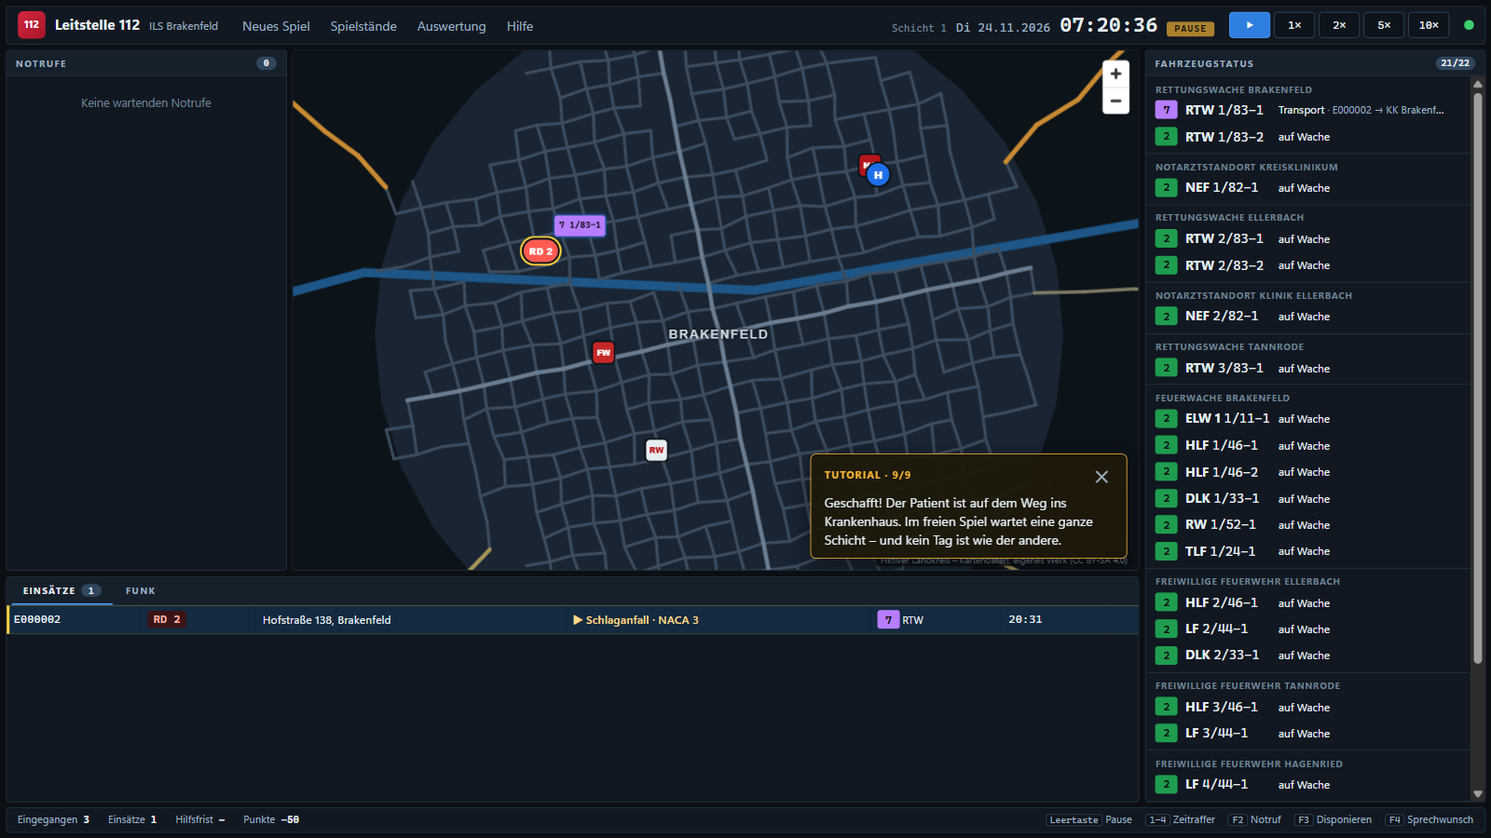
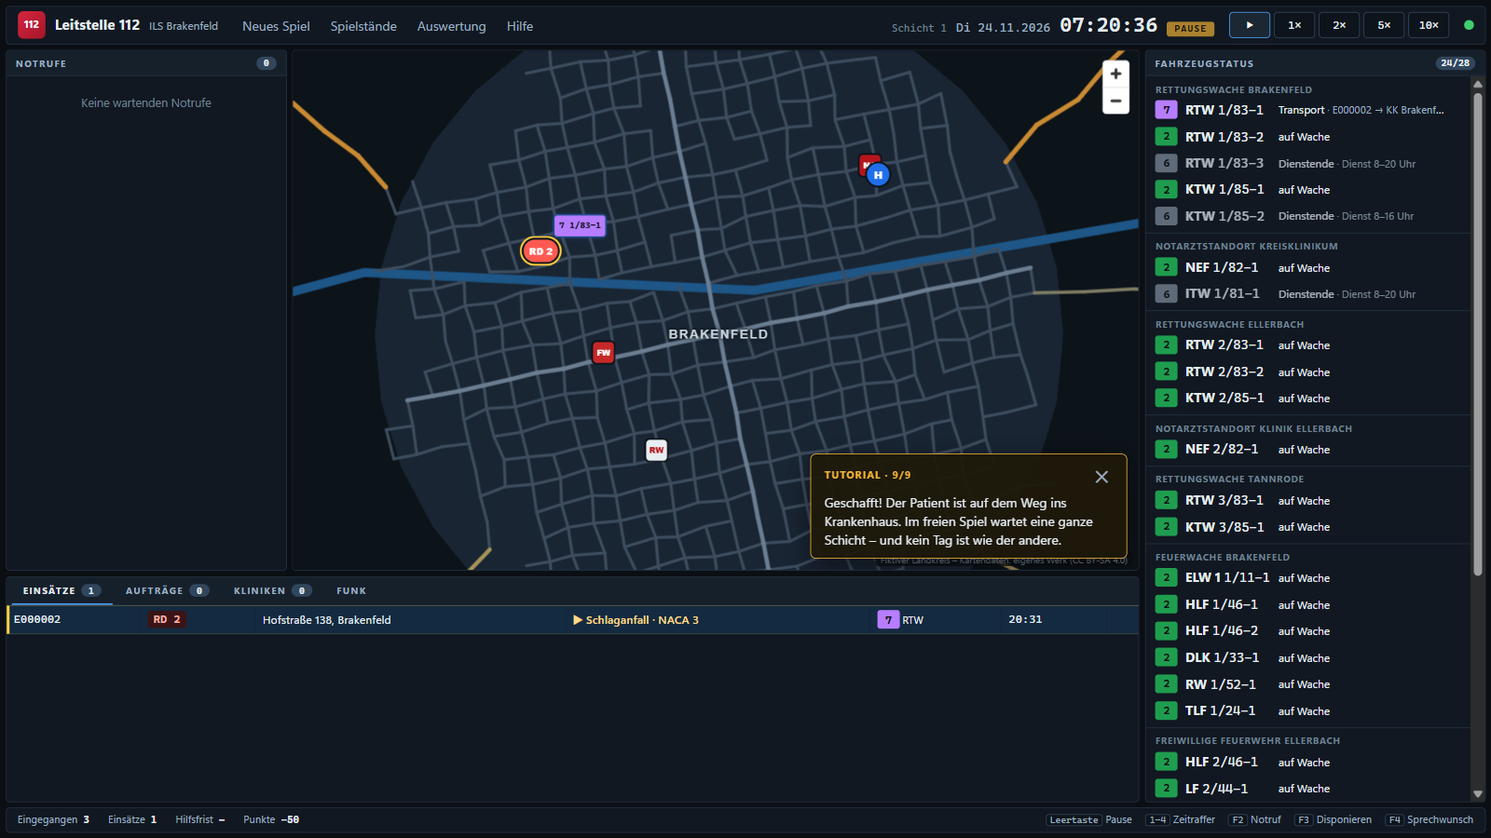
docs: RD-Logistik dokumentieren, Screenshots, Version 0.4.0
- docs/domain/logistik.md mit allen Annahmen (Transportklassen,
  Aufträge, Aufnahmeplätze, Dienstzeiten, Pausen, Status 6)
- Glossar, Vorhaltung, PLAN-Stand und README-Roadmap aktualisiert
- E2E-Test für Aufträge und Kliniken, neue Screenshots
- CHANGELOG 0.4.0

diff --git a/e2e/app.spec.ts b/e2e/app.spec.ts
@@ -66,8 +66,8 @@ test('Startbildschirm und Tutorial', async () => {
   await page.getByTestId('start-tutorial').click();
   await expect(page.getByTestId('tutorial-coach')).toBeVisible();
   await expect(page.getByTestId('start-screen')).toBeHidden();
-  // 7 Rettungsdienst- und 15 Feuerwehrfahrzeuge.
-  await expect(page.getByTestId('vehicle-row')).toHaveCount(22);
+  // 13 Rettungsdienst- (RTW, NEF, KTW, ITW) und 15 Feuerwehrfahrzeuge.
+  await expect(page.getByTestId('vehicle-row')).toHaveCount(28);
 });
 
 test('Takt, Pause und Zeitraffer', async () => {
@@ -146,6 +146,29 @@ test('Auswertung zeigt die laufende Schicht', async () => {
   await expect(page.getByTestId('evaluation')).toBeVisible();
   await shot('auswertung');
   await page.keyboard.press('Escape');
+  await page.getByTestId('btn-pause').click();
+});
+
+test('Logistik: Transportaufträge, Kliniken und Status 6', async () => {
+  // Freies Spiel: Zum Schichtbeginn liegen vorbestellte Krankentransporte vor.
+  await page.getByTestId('menu-new').click();
+  await page.getByTestId('start-free').click();
+  await expect(page.getByTestId('start-screen')).toBeHidden();
+  await page.getByTestId('tab-orders').click();
+  await expect(page.getByTestId('order-row')).toHaveCount(5);
+  await page.getByTestId('order-row').first().getByRole('button').click();
+  await expect(page.getByTestId('dispatch-dialog')).toBeVisible();
+  await page.getByTestId('alarm').click();
+  await expect(page.getByTestId('dispatch-dialog')).toBeHidden();
+  // Tages-RTW, ITW und ein KTW beginnen erst um 8 Uhr (Status 6).
+  await expect(page.getByTestId('vehicle-panel')).toContainText('Dienstende');
+  await page.waitForTimeout(1500);
+  await page.getByTestId('btn-pause').click();
+  await shot('auftraege');
+  await page.getByTestId('tab-hospitals').click();
+  await expect(page.getByTestId('hospital-panel')).toContainText('Stroke Unit');
+  await shot('kliniken');
+  await page.getByTestId('tab-incidents').click();
   await page.getByTestId('btn-pause').click();
 });
 

diff --git a/docs/domain/logistik.md b/docs/domain/logistik.md
@@ -1,0 +1,104 @@
+# Rettungsdienst-Logistik (seit 0.4.0)
+
+Daten: [`content/base/krankentransport.yaml`](../../content/base/krankentransport.yaml),
+[`content/base/einstellungen.yaml`](../../content/base/einstellungen.yaml) (`transports`,
+`logistics`) und [`content/base/fahrzeuge-wachen-kliniken.yaml`](../../content/base/fahrzeuge-wachen-kliniken.yaml).
+Entscheidung: [ADR-0015](../adr/0015-rd-logistik.md). Alle Werte sind **Annahmen** für ein
+glaubwürdiges Spiel. Sie sind keine Vorgaben eines Rettungsdienstgesetzes oder eines realen
+Bedarfsplans.
+
+![Transportaufträge mit Termin, Fahrzeuge in Status 6](../images/auftraege.png)
+
+## Fahrzeuge und Transportklassen
+
+| Typ | Klasse            | Einsatz                                                             |
+| --- | ----------------- | ------------------------------------------------------------------- |
+| RTW | Notfall           | Notfälle, Verlegungen mit Überwachung; Krankentransport möglich     |
+| NAW | Notfall + Notarzt | Wie RTW, bringt den Notarzt mit (im Landkreis nicht stationiert)    |
+| KTW | Krankentransport  | Krankentransporte und Verlegungen ohne Überwachung                  |
+| ITW | Intensiv          | Intensivverlegungen (Beatmung, Katecholamine) mit Intensivmediziner |
+
+- Nur die Klasse **Notfall** transportiert Notfallpatienten und zählt für die **Hilfsfrist**.
+  Ein KTW kann am Notfallort Erste Hilfe leisten und den Erstbefund melden, der Vorschlag verlangt
+  aber weiter einen RTW.
+- Fährt ein Fahrzeug einer niedrigeren Klasse einen Auftrag (KTW für eine Verlegung mit
+  Überwachung), ist das der Fehler „ungeeignetes Fahrzeug“. Eine höhere Klasse ist erlaubt: Ein RTW
+  darf einen Krankentransport fahren, fehlt dann aber für Notfälle. Diese Abwägung ist gewollt.
+
+## Transportaufträge
+
+Krankentransporte kommen nicht über die 112, sondern von Praxen, Kliniken und Pflegeheimen. Sie
+erscheinen im Reiter **„Aufträge“** mit Abholtermin, Abholort und Ziel.
+
+| Auftrag                          | Stichwort | Von → nach                    | Vorlauf     |
+| -------------------------------- | --------- | ----------------------------- | ----------- |
+| Einweisung                       | KTP       | Wohnung → Klinik              | 20–150 Min. |
+| Entlassung                       | KTP       | Klinik → Wohnung/Pflegeheim   | 30–120 Min. |
+| Ambulante Behandlung (Dialyse)   | KTP       | Wohnung → Kreisklinikum       | 60–240 Min. |
+| Verlegung in die Geriatrie       | KTP       | Klinik → Fachklinik Tannrode  | 60–180 Min. |
+| Dringende Verlegung Herzkatheter | VL        | Kl. Ellerbach → Kreisklinikum | 0–10 Min.   |
+| Intensivverlegung                | ITV       | Kl. Ellerbach → Kreisklinikum | 20–60 Min.  |
+
+- **Aufkommen:** 1,6 Aufträge je 100.000 Einwohner und Stunde im Mittel, tagsüber bis zum
+  Doppelten, nachts fast keine. Zum Schichtbeginn liegen **fünf am Vortag bestellte** Aufträge mit
+  Terminen in den ersten drei Stunden vor.
+- **Termine** liegen auf vollen fünf Minuten. Wer zu früh kommt, wartet bis zum Termin; erst dann
+  beginnt die Übernahme (z. B. 8–15 Minuten).
+- **Pünktlich** ist eine Abholung bis 15 Minuten nach dem Termin. Später gibt es den Fehler
+  „Transportauftrag zu spät“ (−10 Punkte). Pünktliche Aufträge bringen +30 Punkte.
+- **Storno:** Hat drei Stunden nach dem Termin niemand abgeholt, übernimmt ein anderer Anbieter.
+  Der Auftrag zählt als verspätet.
+- Aufträge fahren ohne Sonderrechte und brauchen keine Zielklinik-Zuweisung.
+
+## Kliniken: Aufnahmeplätze und Abmeldungen
+
+![Aufnahmebereitschaft der Kliniken](../images/kliniken.png)
+
+Jede Fachabteilung hat eine Zahl **freier Aufnahmeplätze für Notfallpatienten** (`beds`), z. B.
+Stroke Unit 2, Innere 6. Das ist bewusst keine Bettenzahl, sondern die Kapazität, die die Klinik
+gerade für neue Notfälle meldet.
+
+- Jeder Notfalltransport belegt einen Platz. Je Stunde wird etwa die Hälfte der belegten Plätze
+  wieder frei (Verlegung auf Station). Andere Patienten – Selbsteinweiser, Nachbarbereiche –
+  belegen tagsüber zusätzlich Plätze.
+- Sind keine Plätze frei, **meldet sich die Abteilung ab**. Dazu kommen kurzfristige Abmeldungen
+  wegen **Geräteausfall** (CT, Herzkatheter) für 1–3 Stunden, im Mittel etwa jeden dritten Tag je
+  Klinik.
+- Der Zielklinik-Vorschlag umgeht abgemeldete Abteilungen. Wer trotzdem dorthin fährt, obwohl
+  eine andere geeignete Klinik aufnahmebereit war, macht den Fehler „abgemeldete Abteilung“
+  (−10 Punkte).
+- **Ausnahme vitale Bedrohung:** Ab NACA 5 gilt die Aufnahmepflicht der nächsten geeigneten
+  Klinik. Dann zählt nur die Fahrzeit (Annahme, angelehnt an verbreitete Regelungen der
+  Notfallaufnahme).
+- Aufträge belegen keine Notfallplätze: Geplante Aufnahmen sind mit der Klinik abgestimmt.
+
+## Vorhaltung, Besatzungen und Pausen
+
+- **Dienstzeiten:** Einige Fahrzeuge sind nur zu bestimmten Zeiten besetzt, etwa der Tages-RTW
+  (8–20 Uhr) oder KTW (werktags). Außerhalb davon stehen sie mit Status 6 „Dienstende“ auf der
+  Wache. Endet der Dienst während eines Einsatzes, wird der Einsatz zu Ende gefahren.
+- **Besatzungswechsel** der rund um die Uhr besetzten Fahrzeuge um 7 und 19 Uhr. Läuft dann ein
+  Einsatz, macht die alte Besatzung **Überstunden**; die Auswertung zählt sie.
+- **Pausen:** Nach sechs Stunden Dienst bittet die Besatzung per Funk um ihre Pause (angelehnt an
+  § 4 Arbeitszeitgesetz: 30 Minuten bei mehr als sechs Stunden). Der Disponent genehmigt sie mit
+  dem Knopf **„Pause“** in der Fahrzeugliste. Das Fahrzeug ist dann 30 Minuten in Status 6 auf der
+  Wache. Eine Pause lässt sich vorzeitig beenden; die genommene Zeit zählt. Wer bis zum
+  Schichtende keine 30 Minuten Pause bekommen hat, gilt als **Arbeitszeitverstoß** (−10 Punkte).
+  Ohne Antwort erinnert die Besatzung alle 90 Minuten.
+
+## Status 6 – nicht einsatzbereit
+
+| Grund        | Auslöser                                  | Dauer            |
+| ------------ | ----------------------------------------- | ---------------- |
+| Desinfektion | Transport eines infektiösen Patienten     | 30–50 Min.       |
+| Defekt       | 0,8 % je Einsatz (Annahme)                | 1–3 Stunden      |
+| Tanken       | Tankfüllung unter 25 % nach einem Einsatz | 10–15 Min.       |
+| Pause        | Genehmigte Pause                          | 30 Min.          |
+| Dienstende   | Ende der Dienstzeit                       | bis Dienstbeginn |
+
+Das Fahrzeug fährt mit Status 6 zur Wache und ist erst danach wieder verfügbar. Eine Tankfüllung
+reicht für etwa acht Stunden Fahrt; zum Spielbeginn sind die Tanks unterschiedlich voll.
+
+Infektionen kommen mit einer Wahrscheinlichkeit je Krankheitsbild vor, z. B. 15 % bei Atemnot
+(Pneumonie, Influenza) und 6 % beim akuten Abdomen (Gastroenteritis). Bei Aufträgen steht die
+Infektion im Transportschein und ist vorher bekannt.

diff --git a/docs/PLAN.md b/docs/PLAN.md
@@ -55,22 +55,22 @@ Legende: **MVP** = Vertical Slice (v0.1), **1.0** = erste vollständige Version,
 
 ### 2.2 Disposition
 
-| Feature                                                                        |        MVP        |       1.0       | Später |
-| ------------------------------------------------------------------------------ | :---------------: | :-------------: | :----: |
-| Einsatzstichworte mit AAO-Vorschlag, Spieler kann überstimmen                  |         ●         |                 |        |
-| Vorschlag nächstes geeignetes Fahrzeug nach **Fahrzeit** (nicht Luftlinie)     |         ●         |                 |        |
-| RTW, NEF                                                                       |         ●         |                 |        |
-| KTW, ITW, NAW                                                                  |                   |        ●        |        |
-| RTH/ITH (Tagbetrieb, wetterabhängig, Landeplatz/Zwischenlandung)               |                   |        ●        |        |
-| Feuerwehr: HLF, LF, TLF, DLK, RW, ELW 1/2, GW-Typen                            |                   |        ●        |        |
-| SEG / Schnell-Einsatz-Gruppen, Alarmierung über Meldeempfänger mit Ausrückzeit |                   |        ●        |        |
-| Polizei als externe Lage (Anforderung, Eintreffen gemeldet)                    |                   |        ●        |        |
-| FMS-Status 0–9 inkl. Sprechwunsch (5) und priorisiertem Sprechwunsch (0)       | ● (1,2,3,4,6,7,8) | ● (vollständig) |        |
-| Funkverkehr als Textlog                                                        |         ●         |                 |        |
-| Nachalarmierung, Rückmeldungen von der Einsatzstelle ("Lage")                  |                   |        ●        |        |
-| Rendezvous-System Notarzt (NEF + RTW, NA-Begleitung, Nachforderung)            |                   |        ●        |        |
-| Nachbarschaftshilfe über Bereichsgrenzen                                       |                   |        ●        |        |
-| Gebietsabsicherung / Umsetzen von Fahrzeugen (Bedarfsplanung)                  |                   |        ●        |        |
+| Feature                                                                        |   MVP   |       1.0       | Später |
+| ------------------------------------------------------------------------------ | :-----: | :-------------: | :----: |
+| Einsatzstichworte mit AAO-Vorschlag, Spieler kann überstimmen                  |    ●    |                 |        |
+| Vorschlag nächstes geeignetes Fahrzeug nach **Fahrzeit** (nicht Luftlinie)     |    ●    |                 |        |
+| RTW, NEF                                                                       |    ●    |                 |        |
+| KTW, ITW, NAW                                                                  |         |        ●        |        |
+| RTH/ITH (Tagbetrieb, wetterabhängig, Landeplatz/Zwischenlandung)               |         |        ●        |        |
+| Feuerwehr: HLF, LF, TLF, DLK, RW, ELW 1/2, GW-Typen                            |         |        ●        |        |
+| SEG / Schnell-Einsatz-Gruppen, Alarmierung über Meldeempfänger mit Ausrückzeit |         |        ●        |        |
+| Polizei als externe Lage (Anforderung, Eintreffen gemeldet)                    |         |        ●        |        |
+| FMS-Status 0–9 inkl. Sprechwunsch (5) und priorisiertem Sprechwunsch (0)       | ● (1–8) | ● (vollständig) |        |
+| Funkverkehr als Textlog                                                        |    ●    |                 |        |
+| Nachalarmierung, Rückmeldungen von der Einsatzstelle ("Lage")                  |         |        ●        |        |
+| Rendezvous-System Notarzt (NEF + RTW, NA-Begleitung, Nachforderung)            |         |        ●        |        |
+| Nachbarschaftshilfe über Bereichsgrenzen                                       |         |        ●        |        |
+| Gebietsabsicherung / Umsetzen von Fahrzeugen (Bedarfsplanung)                  |         |        ●        |        |
 
 ### 2.3 Rettungsdienst-Logistik
 
@@ -344,7 +344,7 @@ Krankenhauses nie negativ; nach Pause ändert sich der Zustand nicht.
 
 ## 6. Meilensteine
 
-**Stand 2026-11-24:** M0–M4 abgeschlossen (v0.1.0, spielbarer Vertical Slice). Nächster Meilenstein: M5.
+**Stand 2026-11-24:** M0–M7 abgeschlossen (v0.4.0: Notrufannahme 2.0, Feuerwehr, RD-Logistik). Nächster Meilenstein: M8.
 
 Jeder Meilenstein endet lauffähig, getestet, committet, mit CHANGELOG-Eintrag und
 Zusammenfassung an den Product Owner.

diff --git a/docs/domain/glossar.md b/docs/domain/glossar.md
@@ -10,16 +10,23 @@
 | FMS               | Funkmeldesystem: Statusmeldungen 0–9 der Fahrzeuge                                                   | `FmsStatus`           |
 | Hilfsfrist        | Zeit vom Notrufeingang bis zum Eintreffen des ersten Rettungsmittels                                 | `hilfsfrist`          |
 | ILS               | Integrierte Leitstelle für Rettungsdienst und Feuerwehr                                              | –                     |
-| KTW               | Krankentransportwagen (ab M7)                                                                        | –                     |
+| Abmeldung         | Klinik oder Fachabteilung nimmt vorübergehend keine Notfallpatienten auf                             | `isDepartmentOpen`    |
+| ITW               | Intensivtransportwagen: Verlegung beatmeter oder instabiler Patienten mit Intensivmediziner          | `base:itw`            |
+| KTP               | Krankentransport: Transport ohne Notfall, meist mit Termin                                           | `base:ktp`, `order`   |
+| KTW               | Krankentransportwagen: Krankentransporte und Verlegungen ohne Überwachung                            | `base:ktw`            |
 | Meldebild         | Was der Anrufer schildert (nicht unbedingt die wahre Lage)                                           | `reportKey`           |
 | NACA              | Schweregrad-Skala 0–7 (vom Notarzt erhoben). Ab 4 akute Lebensgefahr nicht ausgeschlossen, 7 tödlich | `naca`                |
+| NAW               | Notarztwagen: RTW mit Notarzt an Bord, transportiert selbst                                          | `base:naw`            |
 | NEF               | Notarzteinsatzfahrzeug: bringt den Notarzt zum Einsatzort (Rendezvous-System)                        | `base:nef`            |
 | Rendezvous-System | Notarzt und RTW fahren getrennt und treffen sich am Einsatzort                                       | –                     |
 | RTW               | Rettungswagen: Notfallversorgung und Transport                                                       | `base:rtw`            |
 | Sonderrechte      | Fahrt mit Blaulicht und Martinshorn (§ 35 und § 38 StVO)                                             | `emergency`           |
 | Sprechwunsch      | Status 5: Das Fahrzeug möchte die Leitstelle sprechen                                                | `requestDestination`  |
 | Stichwort         | Einsatzkategorie, die die AAO auslöst (z. B. „RD 2“)                                                 | `Keyword`             |
+| Transportklasse   | Wofür ein Fahrzeug Patienten fährt: Notfall, Krankentransport oder Intensiv                          | `transportClass`      |
 | Tracer-Diagnose   | Zeitkritische Leitdiagnose mit Zeitfenster (Schlaganfall, ACS, Polytrauma, Reanimation)              | `tracer`              |
+| Verlegung         | Transport von einer Klinik in eine andere                                                            | `fromHospitalId`      |
+| Vorhaltung        | Welche Fahrzeuge zu welchen Zeiten besetzt sind                                                      | `service`             |
 | Wahre Lage        | Die tatsächliche Situation hinter einem Notruf, zunächst verborgen                                   | `Truth`               |
 | Zielklinik        | Krankenhaus, das den Patienten aufnimmt                                                              | `hospitalId`          |
 
@@ -32,6 +39,6 @@
 | 3      | Einsatz übernommen / Anfahrt    | `toScene`                                 |
 | 4      | Am Einsatzort                   | `onScene`                                 |
 | 5      | Sprechwunsch                    | `awaitDestination`                        |
-| 6      | Nicht einsatzbereit             | ab M7 (Defekt, Desinfektion)              |
+| 6      | Nicht einsatzbereit             | `toService`, `service` (mit Grund)        |
 | 7      | Patient aufgenommen / Transport | `toHospital`                              |
 | 8      | Am Transportziel                | `handover`                                |

diff --git a/CHANGELOG.md b/CHANGELOG.md
@@ -6,6 +6,35 @@ Versionierung nach [Semantic Versioning](https://semver.org/lang/de/).
 
 ## [Unreleased]
 
+## [0.4.0] – 2026-11-24 – Rettungsdienst-Logistik (M7)
+
+### Hinzugefügt
+
+- **Neue Fahrzeuge:** 4 KTW, ein ITW und ein Tages-RTW. Der NAW ist als Fahrzeugtyp für Mods und
+  andere Regionen vorhanden. Nur Notfall-Rettungsmittel (RTW, NAW) transportieren Notfallpatienten
+  und zählen für die Hilfsfrist.
+- **Transportaufträge** im neuen Reiter „Aufträge“: Einweisungen, Entlassungen, Dialysefahrten,
+  Verlegungen mit Überwachung und Intensivverlegungen, jeweils mit Abholtermin. Zum Schichtbeginn
+  liegen vorbestellte Aufträge vor. Pünktlichkeit wird bewertet, liegengebliebene Aufträge werden
+  storniert.
+- **Kliniken melden sich ab:** Aufnahmeplätze je Fachabteilung, Abmeldung bei Vollbelegung oder
+  Geräteausfall, neuer Reiter „Kliniken“. Der Zielklinik-Vorschlag umgeht abgemeldete Abteilungen;
+  bei vitaler Bedrohung gilt die Aufnahmepflicht.
+- **Fachklinik am Tannenhang** (Geriatrie, Psychiatrie) als dritte Klinik.
+- **Status 6 mit Grund:** Desinfektion nach Infektionstransporten, Defekte, Tanken, Pausen und
+  Dienstende. Das Fahrzeug fährt zur Wache und ist danach wieder verfügbar.
+- **Dienstzeiten, Besatzungswechsel und Pausen:** Fahrzeuge mit Vorhaltezeiten, Wechsel um 7 und
+  19 Uhr, Überstunden bei Einsätzen über das Schichtende. Besatzungen bitten nach sechs Stunden um
+  ihre Pause; der Disponent genehmigt sie oder beendet sie vorzeitig.
+- **Auswertung:** pünktliche Transporte, Überstunden und vier neue Fehlerarten.
+- F3 disponiert Notfälle vor Transportaufträgen.
+- ADR-0015 und Fachdoku `docs/domain/logistik.md` mit allen Annahmen.
+
+### Geändert
+
+- Spielstände haben die Snapshot-Version 3. Spielstände aus 0.3.0 lassen sich nicht laden.
+- Fahrzeug-Hilfsfunktionen liegen in `packages/sim/src/systems/vehicles.ts`.
+
 ## [0.3.0] – 2026-11-24 – Feuerwehr (M6)
 
 ### Hinzugefügt
@@ -151,7 +180,8 @@ eigentlichen Sinn – das kommt ab M2/M3.
 - Nach einem Absturz startet die Simulation neu beim Schichtbeginn; Autosave folgt in M4.
 - Der Installer wird nur in der CI gebaut (Richtlinie des Entwicklungsrechners, PLAN Kapitel 9).
 
-[Unreleased]: https://github.com/samuelklsn/leitstelle-112/compare/v0.3.0...HEAD
+[Unreleased]: https://github.com/samuelklsn/leitstelle-112/compare/v0.4.0...HEAD
+[0.4.0]: https://github.com/samuelklsn/leitstelle-112/compare/v0.3.0...v0.4.0
 [0.3.0]: https://github.com/samuelklsn/leitstelle-112/compare/v0.2.0...v0.3.0
 [0.2.0]: https://github.com/samuelklsn/leitstelle-112/compare/v0.1.0...v0.2.0
 [0.1.0]: https://github.com/samuelklsn/leitstelle-112/compare/v0.0.1...v0.1.0

diff --git a/docs/domain/region-brakenfeld.md b/docs/domain/region-brakenfeld.md
@@ -31,18 +31,21 @@ Ergebnis: rund 1.300 Kreuzungen, 2.000 Straßenstücke, 15.000 Hausadressen und
 
 ## Vorhaltung
 
-| Standort                         | Fahrzeuge              |
-| -------------------------------- | ---------------------- |
-| Rettungswache Brakenfeld         | RTW 1/83-1, RTW 1/83-2 |
-| Notarztstandort Kreisklinikum    | NEF 1/82-1             |
-| Rettungswache Ellerbach          | RTW 2/83-1, RTW 2/83-2 |
-| Notarztstandort Klinik Ellerbach | NEF 2/82-1             |
-| Rettungswache Tannrode           | RTW 3/83-1             |
+| Standort                         | Fahrzeuge (Dienstzeit, wenn nicht rund um die Uhr)                                          |
+| -------------------------------- | ------------------------------------------------------------------------------------------- |
+| Rettungswache Brakenfeld         | RTW 1/83-1, RTW 1/83-2, Tages-RTW 1/83-3 (8–20), KTW 1/85-1 (7–19), KTW 1/85-2 (Mo–Fr 8–16) |
+| Notarztstandort Kreisklinikum    | NEF 1/82-1, ITW 1/81-1 (8–20)                                                               |
+| Rettungswache Ellerbach          | RTW 2/83-1, RTW 2/83-2, KTW 2/85-1 (Mo–Fr 7–17)                                             |
+| Notarztstandort Klinik Ellerbach | NEF 2/82-1                                                                                  |
+| Rettungswache Tannrode           | RTW 3/83-1, KTW 3/85-1 (Mo–Fr 7–15)                                                         |
 
 | Krankenhaus              | Versorgungsstufe | Fachabteilungen                                                                                             |
 | ------------------------ | ---------------- | ----------------------------------------------------------------------------------------------------------- |
 | Kreisklinikum Brakenfeld | Schwerpunkt      | Innere, Chirurgie, Unfallchirurgie, Neurologie, Stroke Unit, Herzkatheter, Pädiatrie, Gynäkologie, Intensiv |
 | Klinik Ellerbach         | Grundversorgung  | Innere, Chirurgie, Psychiatrie                                                                              |
+| Fachklinik am Tannenhang | Fachklinik       | Geriatrie, Psychiatrie (keine Notaufnahme für internistische Notfälle)                                      |
+
+Aufnahmeplätze je Abteilung und ihre Abmeldungen beschreibt [logistik.md](logistik.md).
 
 **Bewusste Schwäche:** Oberwiesel im Nordosten liegt 10–11 Minuten Fahrzeit von der nächsten Wache
 entfernt. Damit ist die Hilfsfrist dort kaum einzuhalten, wie in vielen echten Flächenkreisen. Die

diff --git a/README.md b/README.md
@@ -56,6 +56,8 @@ auf Leitung 2 klingelt schon der nächste Notruf.
 | **Disposition:** Vorschlag nach AAO und echter Fahrzeit           | **Lagekarte und Funk:** Anfahrt mit Sonderrechten, FMS-Status |
 | ![Zielklinik](docs/images/zielklinik.png)                         | ![Auswertung](docs/images/auswertung.png)                     |
 | **Sprechwunsch:** Zielklinik nach Befund und Fachabteilung        | **Schichtauswertung:** Hilfsfrist, Fehler, Outcome            |
+| ![Transportaufträge](docs/images/auftraege.png)                   | ![Kliniken](docs/images/kliniken.png)                         |
+| **Aufträge:** Krankentransporte mit Termin, Status 6 mit Grund    | **Kliniken:** Aufnahmeplätze und Abmeldungen je Abteilung     |
 
 ## Spielen
 
@@ -93,7 +95,8 @@ auf Leitung 2 klingelt schon der nächste Notruf.
 | M4 v0.1.0            | Speichern, Autosave, Auswertung, Tutorial, Tastatur                        | ✅                                                                 |
 | M5 Notrufannahme 2.0 | Strukturierte Abfrage, Fehl-, Scherz- und Doppelanrufe, Polizei-Übergaben  | ✅                                                                 |
 | M6 Feuerwehr         | Feuerwachen, B/TH-Stichworte, Lagemeldung, Nachforderung, Brandausbreitung | ✅                                                                 |
-| M7 – M12             | Logistik, Wetter, Mehrmonitor, MANV, Langzeitspiel, Editoren               | [geplant](https://github.com/samuelklsn/leitstelle-112/milestones) |
+| M7 RD-Logistik       | KTW/ITW, Krankentransporte, Klinikabmeldungen, Status 6, Pausen            | ✅                                                                 |
+| M8 – M12             | Wetter, Mehrmonitor, MANV, Langzeitspiel, Editoren                         | [geplant](https://github.com/samuelklsn/leitstelle-112/milestones) |
 
 ## Technik
 

diff --git a/docs/domain/README.md b/docs/domain/README.md
@@ -14,4 +14,5 @@ die Issue-Vorlage „Fachliches Feedback“.
 | [auswertung.md](auswertung.md)               | Hilfsfrist, Patientenoutcome, Fehler, Punkte         |
 | [zeit.md](zeit.md)                           | Spielzeit, Kalender, Schichten                       |
 | [feuerwehr.md](feuerwehr.md)                 | Feuerwachen, Stichworte, Lagemeldung, Ausbreitung    |
+| [logistik.md](logistik.md)                   | Krankentransport, Kliniken, Dienst, Pausen, Status 6 |
 | [region-brakenfeld.md](region-brakenfeld.md) | Der fiktive Landkreis und seine Vorhaltung           |
